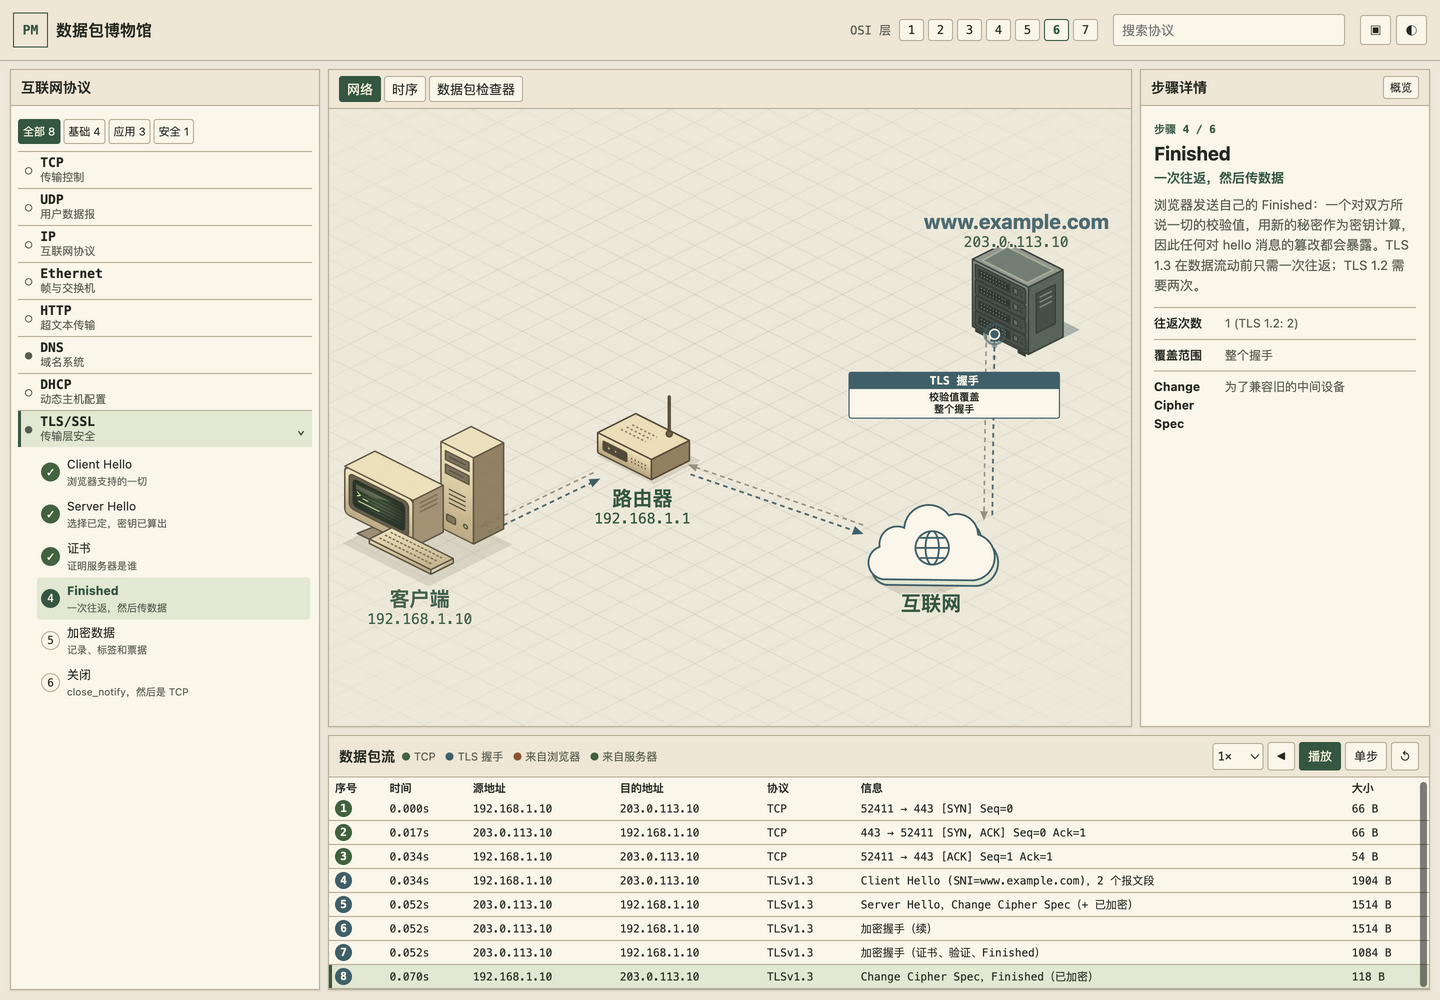
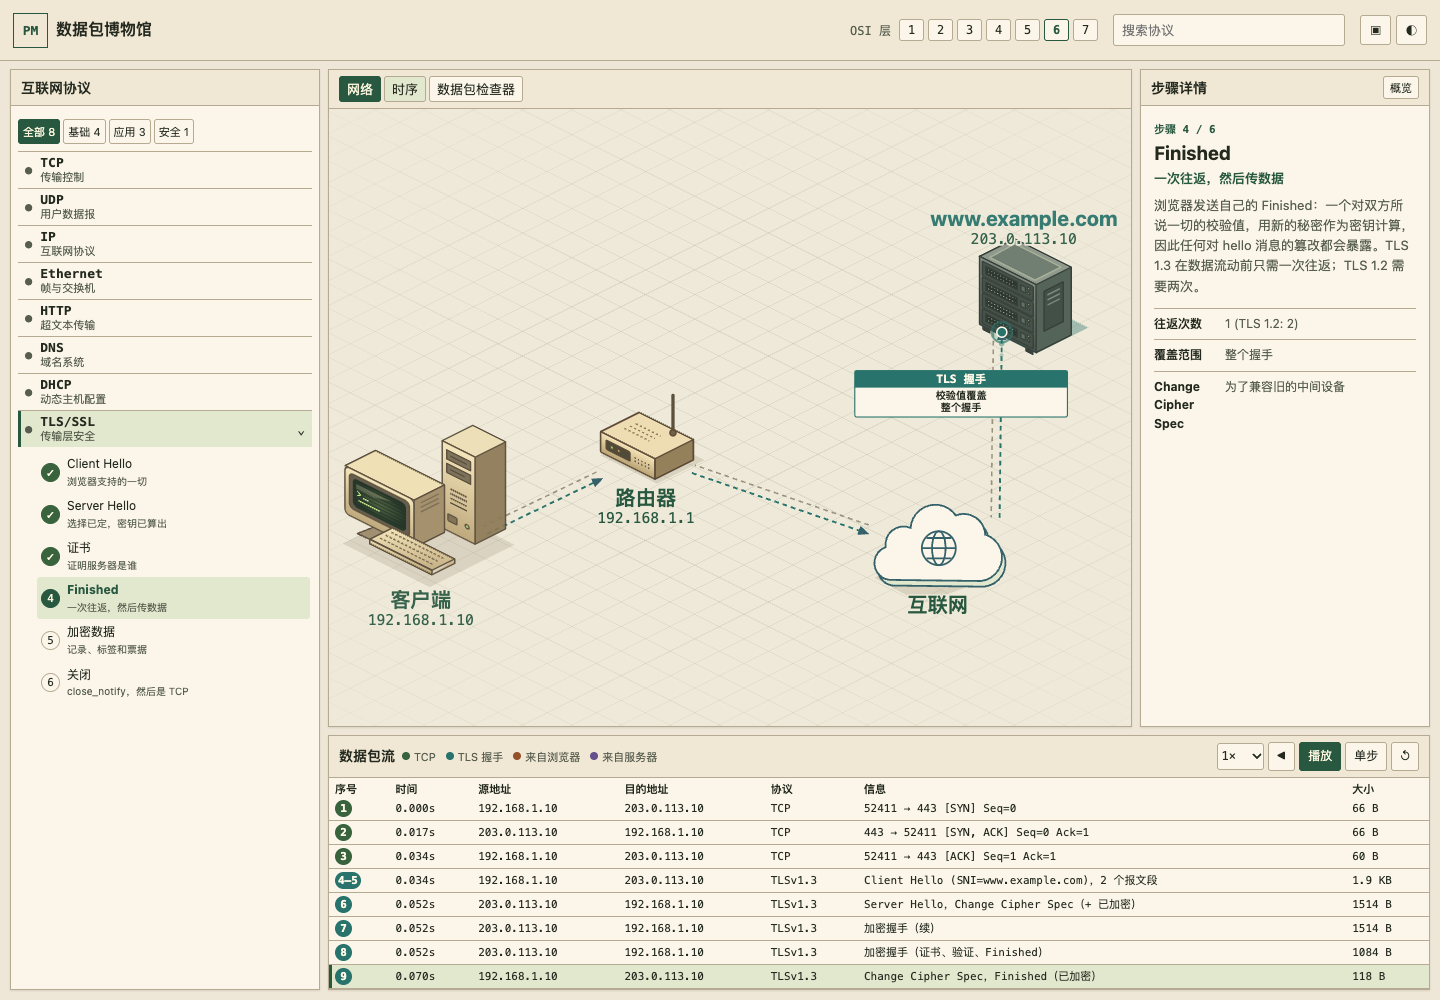
TLS 记录按 TCP 分段逐段呈现

diff --git a/src/lessons/tls/index.js b/src/lessons/tls/index.js
@@ -15,27 +15,38 @@ const links = [
   { nodes: ['internet', 'web'], points: [[619, 288], [621, 124]] },
 ];
 const path = nodes.map(node => node.id), reverse = [...path].reverse();
-const frames = transportFrames.map(({ fromServer, ...frame }, i) => {
-  const [time, summary, badge] = rows[i];
-  const { application } = frame;
-  return { ...frame, id: `tls-${i + 1}`, path: fromServer ? reverse : path, time, summary, badge,
-    protocol: application ? 'TLSv1.3' : 'TCP',
-    category: !application ? 'tcp' : i <= 7 ? 'handshake' : fromServer ? 'server' : 'browser',
-    leadMs: i === 0 ? 2350 : 540, holdMs: application ? 1750 : 500,
+const frames = transportFrames.map(({ fromServer, row, part, ...frame }) => {
+  const [time, summary, badge] = rows[row], tls = frame.protocol === 'TLSv1.3';
+  return { ...frame, id: `tls-${row + 1}${part ? `-${part + 1}` : ''}`, path: fromServer ? reverse : path, time, summary, badge,
+    category: !tls ? 'tcp' : row <= 7 ? 'handshake' : fromServer ? 'server' : 'browser',
+    leadMs: row === 0 ? 2350 : row === 6 ? 700 : 540 + part * 160, holdMs: tls ? 1750 : 500,
   };
 });
-const starts = [0, 4, 5, 7, 8, 11, frames.length];
+const ranges = [0, 4, 5, 7, 8, 11, 14];
+const ids = (start, end) => frames.filter((_, i) => transportFrames[i].row >= start && transportFrames[i].row < end).map(frame => frame.id);
+const hello = ids(3, 4), cert = ids(5, 7), response = ids(10, 11);
+const notes = {
+  1: [{ after: 'tls-5', node: 'client', time: '0.052s', text: '已算出共享密钥' }],
+  2: [{ after: 'tls-7', node: 'client', time: '0.052s', text: '证书链通向受信任的根' }],
+};
 
 export default {
   meta: { id: 'tls', title: 'TLS/SSL', subtitle: '传输层安全', group: 3, order: 32, layer: 6 },
   overview: para(overview), outro: para(outro), nodes, links, frames,
-  sequenceNodes: ['client', 'web'],
+  sequenceNodes: ['client', 'web'], timeColumn: true,
+  fieldNames: { 服务器名称: '服务器名称（SNI）', 支持版本: '提供的版本', 选中版本: '商定的版本', 公钥: '密钥共享', 公钥长度: '密钥共享长度' },
+  reassembly: [
+    { frames: hello, protocol: 'TLSv1.3', application: 'tls', summary: rows[3][1] },
+    { frames: ids(4, 7), protocol: 'TLSv1.3', application: 'tls', summary: 'Server Hello 与后续加密握手', separateRows: true },
+    { frames: response, protocol: 'TLSv1.3', application: 'tls', summary: rows[10][1] },
+  ],
   legend: {
-    tcp: { label: 'TCP', tone: 'reply' }, handshake: { label: 'TLS 握手', tone: 'query' },
-    browser: { label: '来自浏览器', tone: 'referral' }, server: { label: '来自服务器', tone: 'reply' },
+    tcp: { label: 'TCP', tone: 'reply' }, handshake: { label: 'TLS 握手', tone: 'teal' },
+    browser: { label: '来自浏览器', tone: 'referral' }, server: { label: '来自服务器', tone: 'violet' },
   },
   steps: steps.map(([id, ...copy], i) => ({ id, ...para(copy),
-    frames: frames.slice(starts[i], starts[i + 1]).map(frame => frame.id),
+    frames: ids(ranges[i], ranges[i + 1]), events: notes[i],
+    ...(i === 0 ? { parallel: [hello] } : i === 2 ? { parallel: [cert] } : i === 4 ? { parallel: [response] } : {}),
     ...(i === 0 ? { closeup: ['client'] } : { wide: i >= 4 }),
   })),
 };

diff --git a/src/lessons/tls/frames.js b/src/lessons/tls/frames.js
@@ -32,32 +32,37 @@ const serverHello = tlsRecord({ type: 22, payload: tlsHello({ server: true, rand
 const ccs = tlsRecord({ type: 20, payload: uint(1, 1) });
 const encrypted = (length, seed) => tlsRecord({ type: 23, payload: sample(length, seed) });
 const synOptions = Uint8Array.of(2, 4, 5, 180, 1, 3, 3, 8, 1, 1, 4, 2);
+const serverFlight = concat(serverHello, ccs, encrypted(2724, 7));
 
-// shortcut: one complete synthetic record per encrypted handshake segment; keep the original record split when TCP reassembly is available.
 const packets = [
   [false, 0x02], [true, 0x12], [false, 0x10],
-  [false, 0x18, clientHello],
-  [true, 0x10, concat(serverHello, ccs, encrypted(234, 7))],
-  [true, 0x10, encrypted(1455, 8)], [true, 0x18, encrypted(1025, 9)],
+  [false, 0x18, clientHello, 'split'],
+  [true, 0x10, serverFlight.subarray(0, 1460), 'partial'],
+  [true, 0x10, serverFlight.subarray(1460, 2920), 'partial'],
+  [true, 0x18, serverFlight.subarray(2920), 'partial'],
   [false, 0x18, concat(ccs, encrypted(53, 10))],
   [false, 0x18, encrypted(682, 11)],
   [true, 0x18, concat(encrypted(234, 12), encrypted(234, 13))],
-  [true, 0x18, encrypted(12705, 14)],
+  [true, 0x18, encrypted(12705, 14), 'split'],
   [true, 0x18, encrypted(19, 15)],
   [true, 0x11], [false, 0x11],
 ];
 
 const mac = ['00:00:5e:00:53:10', '00:00:5e:00:53:01'];
 const sequence = [0, 0];
-export const transportFrames = packets.map(([fromServer, flags, payload], i) => {
+let ipID = 0;
+export const transportFrames = packets.flatMap(([fromServer, flags, payload, transmission], row) => {
+  const chunks = transmission === 'split' ? Array.from({ length: Math.ceil(payload.length / 1460) }, (_, i) => payload.subarray(i * 1460, (i + 1) * 1460)) : [payload];
   const dir = Number(fromServer), peer = 1 - dir;
   const src = fromServer ? addresses.web : addresses.client, dst = fromServer ? addresses.client : addresses.web;
   const srcPort = fromServer ? 443 : 52411, dstPort = fromServer ? 52411 : 443;
-  const segment = tcp({ src, dst, srcPort, dstPort, seq: sequence[dir], ack: flags & 0x10 ? sequence[peer] : 0,
-    flags, options: flags & 0x02 ? synOptions : undefined, payload,
+  return chunks.map((data, part) => {
+    const segment = tcp({ src, dst, srcPort, dstPort, seq: sequence[dir], ack: flags & 0x10 ? sequence[peer] : 0,
+      flags: part < chunks.length - 1 ? flags & ~0x08 : flags, options: flags & 0x02 ? synOptions : undefined, payload: data,
+    });
+    sequence[dir] += (data?.length ?? 0) + Number(Boolean(flags & 0x03));
+    return { row, part, fromServer, protocol: data ? 'TLSv1.3' : 'TCP', bytes: ethernet({ src: mac[dir], dst: mac[peer], pad: true,
+      payload: ipv4({ src, dst, protocol: 6, payload: segment, id: ++ipID, ttl: fromServer ? 55 : 128 }),
+    }), ...(data && !transmission ? { application: 'tls' } : {}) };
   });
-  sequence[dir] += (payload?.length ?? 0) + Number(Boolean(flags & 0x03));
-  return { fromServer, bytes: ethernet({ src: mac[dir], dst: mac[peer],
-    payload: ipv4({ src, dst, protocol: 6, payload: segment, id: i + 1, ttl: fromServer ? 55 : 128 }),
-  }), ...(payload ? { application: 'tls' } : {}) };
 });
